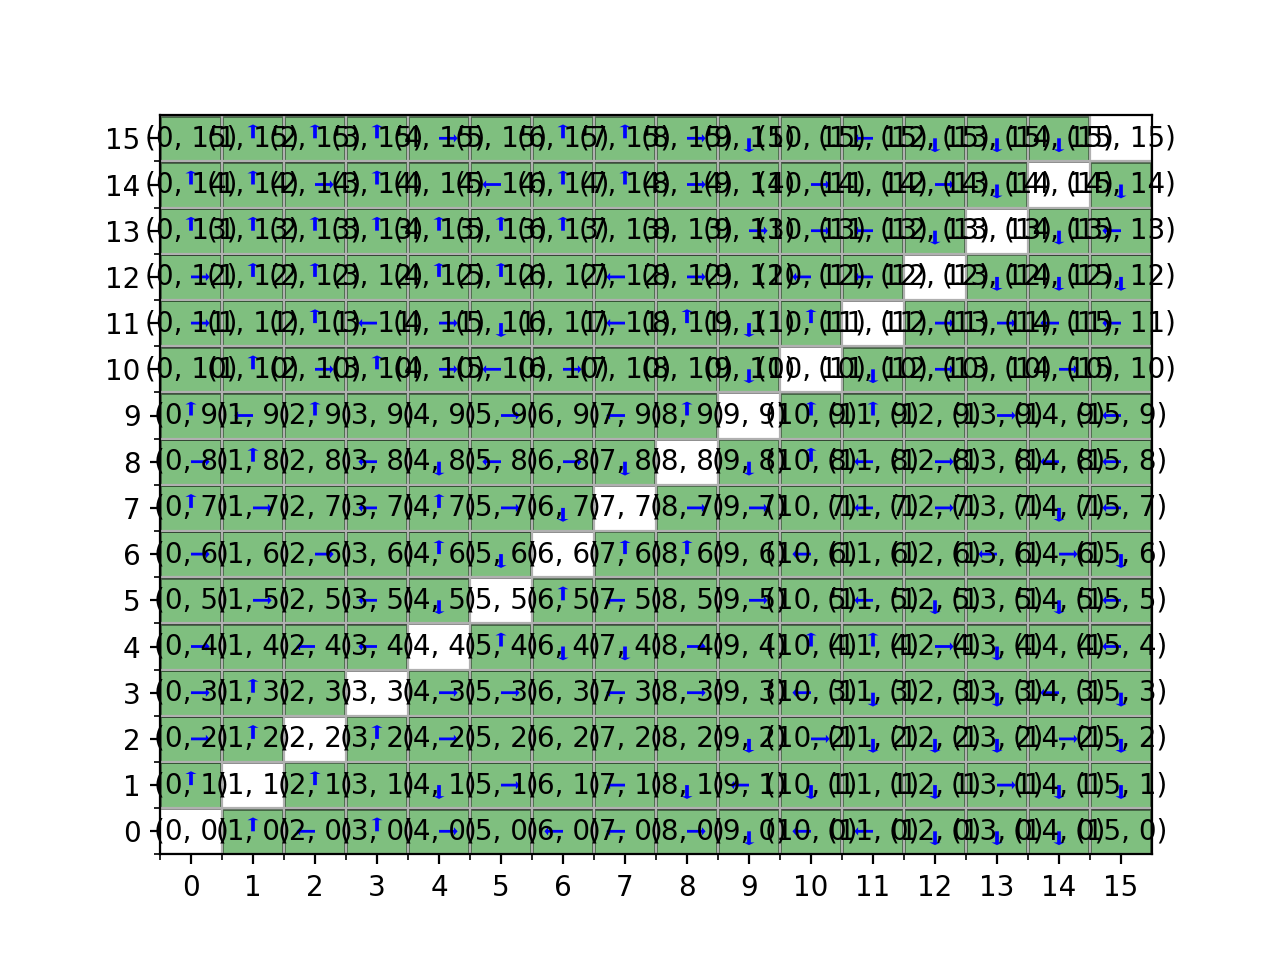
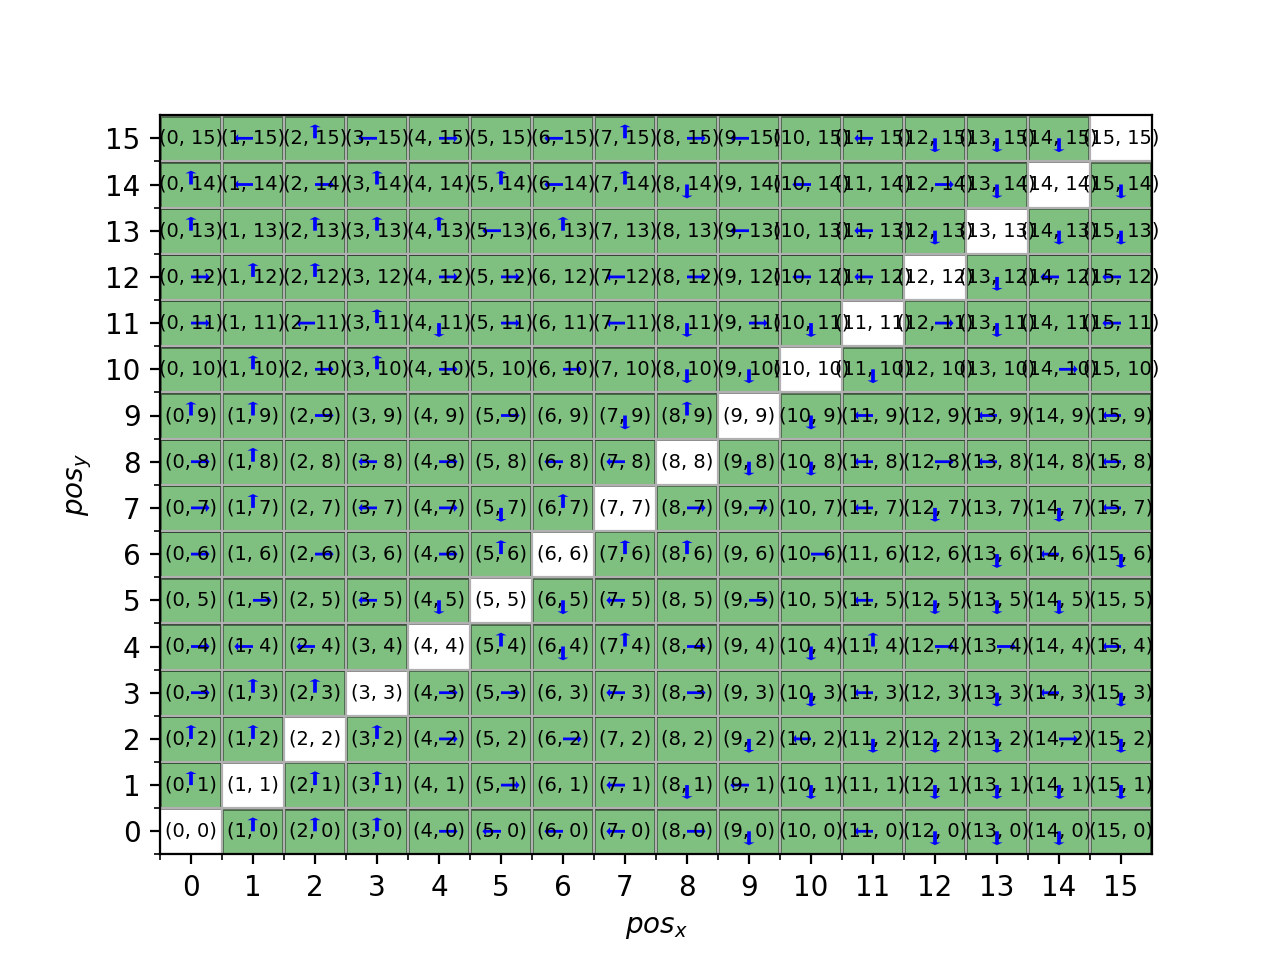
added code to plot the state value and q value of the game world g_hat. WIP : delete the current plots and update policy, state value and action value plots for n=3to7. And then merge this to master

Changed region(s): [[0.125, 0.125, 0.9375, 0.875], [0.5, 0.9375, 0.5312, 0.9688], [0.0312, 0.5, 0.0625, 0.5312]]

diff --git a/src/main.py b/src/main.py
@@ -77,7 +77,7 @@ class plotterClass():
         width = env.env.pos_x.stop
         height = env.env.pos_y.stop
 
-        self.plot_game_world(width, height, print_grid_num=True)
+        self.plot_game_world(width, height, print_grid_num=True, fontsize=self._font_size_dict(str(width)))
         # current position is a tuple of the format (x, y, t=1)
 
         # for x in env.env.pos_x:
@@ -93,14 +93,74 @@ class plotterClass():
                 self._add_patch(shape='rect', xy=xy, color='green')
                 self._add_patch(shape='arrow', xy=xy, action=sys_best_action, color='blue')
 
-    def plot_game_world(self, width, height, print_grid_num=True):
+    def plot_state_value(self, env, sys_player):
+        # plot the game world
+        width = env.env.pos_x.stop
+        height = env.env.pos_y.stop
+        self.plot_game_world(width, height, print_grid_num=False, fontsize=self._font_size_dict(str(width)))
+
+        offset = 0.5
+        # for each state in V print the number on the respective grid
+        for k, v in sys_player.V.items():
+            # only concerned with the system state values
+            if k[2] == 1:
+                x = k[0]
+                y = k[1]
+                # color square as light green
+                self._add_patch(shape='rect', xy=(x, y), color='green')
+                # annotate the box with the state value
+                self.ax.annotate(f"{v:.3f}", xy=(offset + x, offset + y), xycoords='data',
+                    horizontalalignment='center',
+                    verticalalignment='center', fontsize=self._font_size_dict(str(width)))
+
+    def plot_q_value(self, env, sys_player):
+        # plot the game world
+        width = env.env.pos_x.stop
+        height = env.env.pos_y.stop
+        self.plot_game_world(width, height, print_grid_num=False, fontsize=self._font_size_dict(str(width)))
+        offset = 0.5
+        for k, v in sys_player.pi.items():
+            # only concerned with the system state values
+            if k[2] == 1:
+                x = k[0]
+                y = k[1]
+                # color square as light green
+                self._add_patch(shape='rect', xy=(x, y), color='green')
+                for action in v.keys():
+                    # draw arrows for each transition
+                    if action == "stay_s":
+                        self.ax.annotate(f"stay", xy=(offset + x, offset + y), xycoords='data',
+                                         horizontalalignment='center',
+                                         verticalalignment='center', fontsize=self._font_size_dict(str(width)))
+                    else:
+                        self._add_patch(shape="arrow", action=action, xy=(x, y), color='blue')
+
+    def _font_size_dict(self,  grid_size):
+        """
+        Helper method to map a given grid size to its respective font size
+        :param grid_size: N**2 value
+        :type grid_size: basestring
+        :return: fontsize
+        :rtype: int
+        """
+        fontsize_dict = {
+            '9': 12,
+            '16': 6,
+            '25': 3,
+            '36': 2,
+            '49': 1,
+        }
+
+        return fontsize_dict[grid_size]
+
+    def plot_game_world(self, width, height, print_grid_num=True, fontsize=None):
         # flag to print the grid numbers
         if print_grid_num:
             # we need to offset both the x and y to print in the center of the grid
             for x in range(width):
                 for y in range(height):
                     off_x, off_y = x + 0.5, y + 0.5
-                    self.plot_grid_num((off_x, off_y), value=f"{x, y}")
+                    self.plot_grid_num((off_x, off_y), value=f"{x, y}", fontsize=fontsize)
 
                     # add obstacles to the gridworld when n = 7
                     if width == 49:
@@ -120,8 +180,10 @@ class plotterClass():
         # ticks = locations of the ticks and labels = label of the ticks
         self.ax.set_xticks(ticks=list(map(offset_ticks, range(width))), minor=False)
         self.ax.set_xticklabels(labels=range(width))
+        self.ax.xaxis.set_tick_params(labelsize=self._font_size_dict(str(width)))
         self.ax.set_yticks(ticks=list(map(offset_ticks, range(width))), minor=False)
         self.ax.set_yticklabels(labels=range(width))
+        self.ax.yaxis.set_tick_params(labelsize=self._font_size_dict(str(width)))
 
         # add points for gridline plotting
         self.ax.set_xticks(ticks=range(width), minor=True)
@@ -135,7 +197,7 @@ class plotterClass():
         self.ax.yaxis.grid(True, which='minor')
         self.ax.xaxis.grid(True, which='minor')
 
-    def plot_gridworld(self, env, print_grid_num=False, *args):
+    def plot_gridworld(self, env, print_grid_num=False, fontsize=None,  *args):
         # the env here the original env of size (N x M)
         # fig_title = args[0]
 
@@ -148,7 +210,7 @@ class plotterClass():
             for x in range(cmax):
                 for y in range(rmax):
                     off_x, off_y = x + 0.5, y + 0.5
-                    self.plot_grid_num((off_x, off_y), value=f"{x, y}")
+                    self.plot_grid_num((off_x, off_y), value=f"{x, y}", fontsize=fontsize)
 
                     # add obstacles to the gridworld when n = 7
                     if cmax == 7:
@@ -208,14 +270,24 @@ class plotterClass():
 
 
     def plot_grid_num(self,xy, value, offset=None, **kwargs):
+        """
+        A method to add text to the grid world
+        :param xy: (x, y) position of the text. No offset included in here
+        :type xy: tuple
+        :param value: The text that should go at each block
+        :type value: basestring
+        :param offset: how much to offset the values by in both x and y direction
+        :type offset: int
+        :param kwargs:
+        :type kwargs:
+        """
         x, y, = xy
-
         self.ax.annotate(value, xy=(x, y), xycoords='data',
                     horizontalalignment='center',
                     verticalalignment='center',
                     **kwargs)
 
-    def save_fig(self, name, dpi=200):
+    def save_fig(self, name, dpi=200, format='png'):
         """
         A method to save the figure plotted in a given directory within src/
         :param name: should be of the format two_player_game/plots/name_of_the_plot.png
@@ -224,7 +296,7 @@ class plotterClass():
         matplotlib is 100.
         :type dpi: int
         """
-        plt.savefig(name, dpi=dpi)
+        plt.savefig(name, dpi=dpi, format=format)
 
     def _add_patch(self, shape, xy, color='green', robo_image=None, action=None, alpha=0.5):
         x, y = xy
@@ -948,8 +1020,22 @@ def compute_optimal_strategy_using_rl(sys_str, game_G_hat, saved_flag, iteration
     # plot the game policy learned
     plot_pi = plotterClass(fig_title=f"Policy for G_hat_N_{n}", xlabel='$pos_x$', ylabel='$pos_y$')
     plot_pi.plot_policy(env=game_G_hat, sys_player=unpickled_sys, sys_str=sys_str)
-    plot_pi.save_fig(f"two_player_game/plots/{plot_pi.fig_title}_N_{n}.png")
-    plt.pause(0.5)
+    plot_pi.save_fig(f"two_player_game/plots/{plot_pi.fig_title}_N_{n}.png", dpi=500)
+    plt.pause(1)
+    plt.close()
+
+    # plot state value on the game G_hat
+    plot_v_opt = plotterClass(fig_title=f"State_Values_game_world_N_{n}", xlabel="$pos_x$", ylabel="$pos_y$")
+    plot_v_opt.plot_state_value(env=game_G_hat, sys_player=unpickled_sys)
+    plot_v_opt.save_fig(f"two_player_game/plots/{plot_v_opt.fig_title}.png", dpi=500)
+    plt.pause(1)
+    plt.close()
+
+    # plot state value on the game G_hat
+    plot_q_opt = plotterClass(fig_title=f"Action_Values_game_world_N_{n}", xlabel="$pos_x$", ylabel="$pos_y$")
+    plot_q_opt.plot_q_value(env=game_G_hat, sys_player=unpickled_sys)
+    plot_q_opt.save_fig(f"two_player_game/plots/{plot_q_opt.fig_title}.png", dpi=500)
+    plt.pause(1)
     plt.close()
 
     return rl_time, reward_per_episode[-1]
@@ -1051,35 +1137,6 @@ def update_strategy_w_state_pos_map(strategy, x_length, y_length):
         strategy[k]['state_pos_map'] = (pos_sys, pos_env, t)
         if print_state_pos_map:
             print(k, strategy[k]['state_pos_map'])
-#
-#
-# def main():
-#     # construct_game()
-#     game = construct_game()
-#     x_length = game.env.env_data["env_size"]["n"]
-#     y_length = game.env.env_data["env_size"]["m"]
-#     sys_str, env_str = extract_permissive_str()
-#     a_c = game.get_controlled_actions()
-#     # updatestratetegy_w_state_pos_map(sys_str)
-#     update_strategy_w_state_pos_map(sys_str)
-#     sys_srt = pre_processing_of_str(sys_str, x_length, y_length)
-#     if print_str_after_processing:
-#         print("Strategy after removing all the invalid transitions")
-#         for k, v in sys_str.items():
-#             print(f"{k}: {v}")
-#
-#     # use these str to update the transition matrix
-#     # update_transition_function(game, sys_str)
-#
-#     # update Game G to get G_hat
-#     game_G_hat = create_G_hat(strategy=sys_str, game=game)
-#
-#     # print the updated transition matrix
-#     if print_updated_transition_function:
-#         print("The Updated transition matrix is: ")
-#         game_G_hat.print_transition_matrix()
-#
-#     return game_G_hat
 
 
 def parse_addition_args(args):
@@ -1103,7 +1160,7 @@ def parse_addition_args(args):
     else:
         print("Uusin default argument values : N = 3 ; saved_player = False(will train from scratch)")
         save_flag = True
-        grid_size = 3
+        grid_size = 6
     return save_flag, grid_size
 
 
